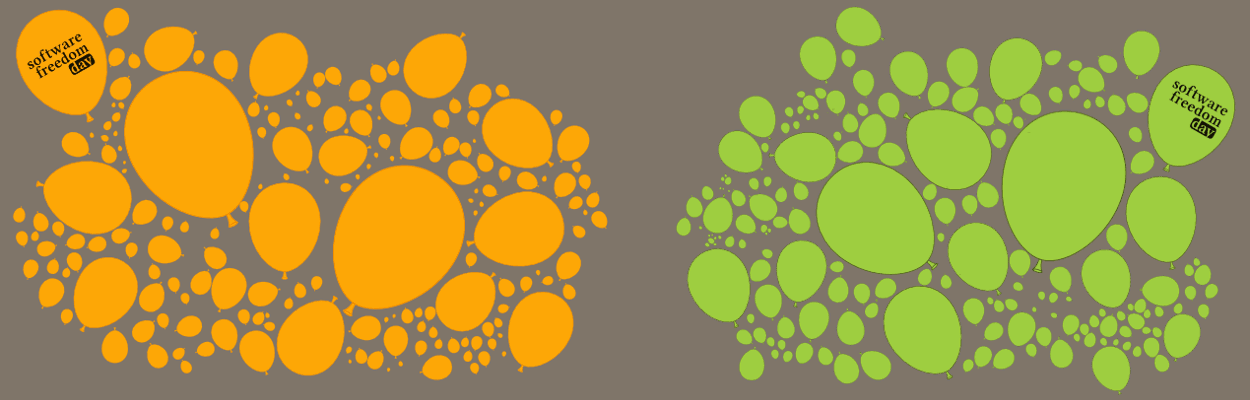
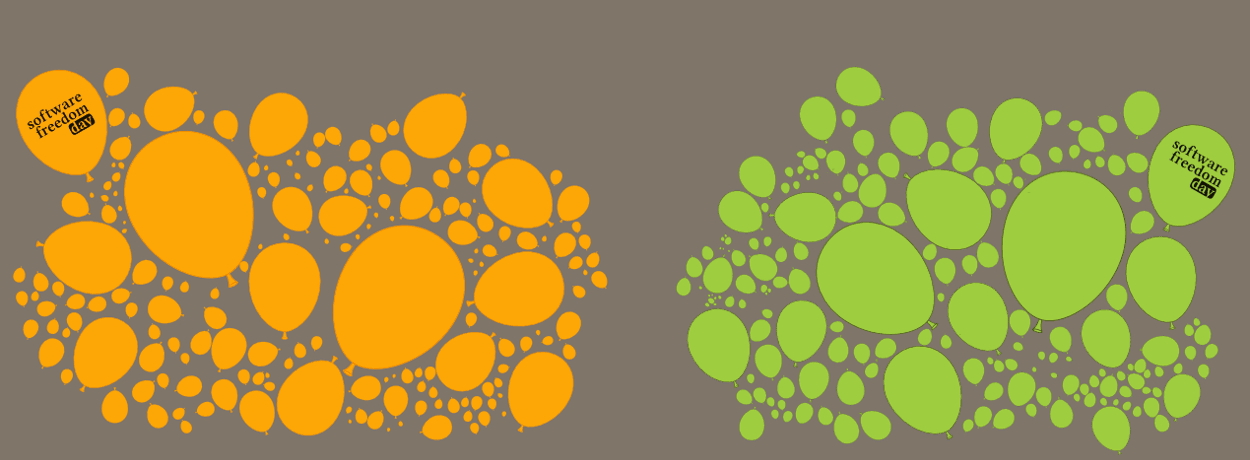
fix
总算找到点方便的调试方法

diff --git a/_layouts/default.html b/_layouts/default.html
@@ -11,22 +11,21 @@
 <style>
   @import url(https://fonts.googleapis.com/css?family=Lato:300italic,700italic,300,700);
   html {
-  background: #6C7989;
-  background: #6c7989 -webkit-gradient(linear, 50% 0%, 50% 100%, color-stop(0%, #6c7989), color-stop(100%, #434b55)) fixed;
-  background: #6c7989 -webkit-linear-gradient(#6c7989, #434b55) fixed;
-  background: #6c7989 -moz-linear-gradient(#6c7989, #434b55) fixed;
-  background: #6c7989 -o-linear-gradient(#6c7989, #434b55) fixed;
-  background: #6c7989 -ms-linear-gradient(#6c7989, #434b55) fixed;
-  background: #6c7989 linear-gradient(#6c7989, #434b55) fixed;
+  background: #7F756B;
   }
 
   body {
   padding: 50px 0;
   margin: 0;
   font: 14px/1.5 Lato, "Helvetica Neue", Helvetica, Arial, sans-serif;
-  color: #555;
+  color: #7F756B;
   font-weight: 300;
-  }
+  background: url("/sfd2013/img/bg.png");
+  background-size: 100%;
+  filter: progid:DXImageTransform.Microsoft.AlphaImageLoader(enabled=true, src=”/sfd2013/img/bg.png”, sizingMethod=’scale’);
+  background-repeat:no-repeat;
+  background-attachment:fixed;
+   }
 
   .wrapper {
   width: 800px;
@@ -370,34 +369,18 @@
   try { Typekit.load(); } catch (e) {}
 </script>
 <style type="text/css"></style></head>
-  <body style="background: #7F756B url(/sfd2013/img/bg.png) 0 45px no-repeat;background-attachment:fixed">
+  <body><!-- style="background:#7F756B >-->
+
     <!--___________________________________________Content Start_______________________________________________-->
     <div class="wrapper">
       <header>
 	<div class="pure-g-r">
 	  <div class="pure-u-4-5">
-	      <a href="http://qdlug.github.com/sfd2013/">
-		<img src="/sfd2013/img/banner2013t.png">
-	      </a>
+	      <a href="http://qdlug.github.com/sfd2013/"><img src="/sfd2013/img/banner2013t.png" width="633px" alt="BannerSFD2013"></a>
 	  </div>
 	  <div class="pure-u-1-5">
-      <small><a href="https://github.com/qdlug/sfd2013/wiki" class="pure-button pure-button-primary">
-		View On <strong>Wiki</strong>
-	      </a>
-	      <br>
-	      <br>
-	      <p>
-		距离
-	      </p>
-	      <p>
-		Software Freedom Day
-	      </p>
-	      <p>
-		　　　2013
-	      </p>
-	      <p>
-		　　　　还有<big><b><script type="text/javascript">var EDC = new Date("2013/09/21");var now = new Date();document.write(Math.round((EDC-now)/(86400000)))</script></b></big>天.
-      </p></small>
+      <p><br><a href="https://github.com/qdlug/sfd2013/wiki" class="pure-button pure-button-primary">View On <strong>Wiki</strong></a></p>
+        <p style="font-color:EEEEFF"><br>距离<br>Software Freedom Day<br>　　　2013<br>　　　　还有<big><b><script type="text/javascript">var EDC = new Date("2013/09/21");var now = new Date();document.write(Math.round((EDC-now)/(86400000)))</script></b></big>天. </p>
 	  </div>
 	</div>
       </header>
@@ -424,7 +407,7 @@
     <footer>
       <p>Event held by <a href="#">CoYouth Club</a></p>
       <p>Hosted on GitHub Pages —  Theme by <a href="http://purecss.io/">Pure UI</a> &#38; <a href="https://github.com/orderedlist">orderedlist</a>. </p>
-      <br><img src="/sfd2013/img/cc.png" width="100%">
+      <br><img src="/sfd2013/img/cc.png" width="100%" alt="CoYouth Club logo">
     </footer>
     <!--[if !IE]><script>fixScale(document);</script><![endif]-->
 
@@ -440,5 +423,6 @@
 
 </script>
     <!--Content end-->
+    </div>
     <script src="./js/1.5.4"></script>
 </body></html>
